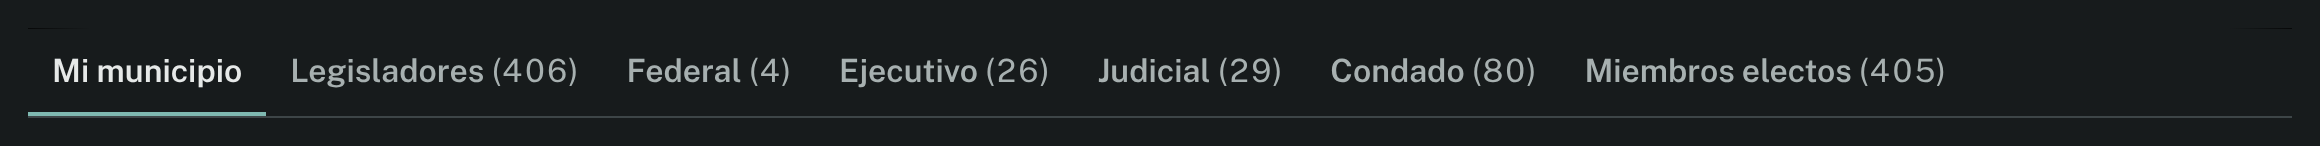
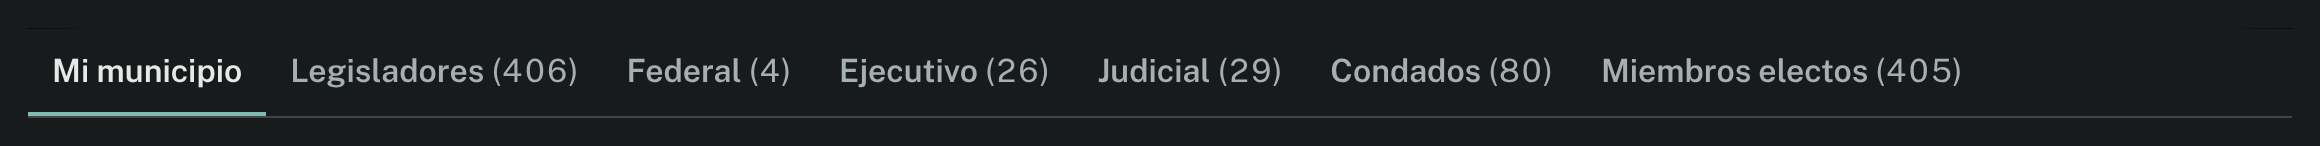
Members-elect polish: STATUS READY for the Sunday dry run
STATUS (release and backend session, session_01E3dVhbcYK2W3ZViQknFZyn):
fix/members-elect-polish is READY. It is dev 92247871 (dry run 6) plus
Alice's four answers to "From the walk of dry run 4" and the two small ones.
docs/design/members-elect-polish/README.md has every change, the shots
(before on dry run 6, after with the branch applied in the browser) and the
checks.

1. Seven Officials tabs on one line at 1280 and 1440, in English and Spanish.
   The proposed words, each Spanish one a draft:
     My Town | Legislators (406) | Federal (4) | Executive (26) |
     Judicial (29) | County (80) | Members-Elect (405)
     Mi municipio | Legisladores (406) | Federal (4) | Ejecutivo (26) |
     Judicial (29) | Condados (80) | Miembros electos (405)
   1,016px in English and about 979 in Spanish, of 1,132. The panels keep
   the whole names as their headings, for a screen reader and a page read
   without the script. The phone is unchanged. "Condados" is plural, after a
   reviewer read "Condado (80)" as one county.
2. "Your rep" / "Your senator" stays only on a member re-elected to the seat
   they hold, on town pages, the map and the Members-Elect tab.
   build_members_elect writes "own" for that winner (206 of 213 on dry run
   6's data; Creighton and Telerski among the 7 not), the renderers mark the
   item elown, and ytMark takes the tag off every other link in a winners'
   list.
3. From 2 December, /officials#members-elect opens Legislators and writes
[…]

Changed region(s): [[0.6207, 0.3836, 0.869, 0.5753]]

diff --git a/docs/design/members-elect-polish/README.md b/docs/design/members-elect-polish/README.md
@@ -24,11 +24,13 @@ script still get. Each Spanish word is a draft.
 | federal | **Federal (4)** | **Federal (4)** | Federal Delegation / Delegación federal |
 | executive | **Executive (26)** | **Ejecutivo (26)** | Executive Branch / Poder Ejecutivo |
 | judicial | **Judicial (29)** | **Judicial (29)** | Judicial Branch / Poder Judicial |
-| counties | **County (80)** | **Condado (80)** | County Officials / Funcionarios del condado |
+| counties | **County (80)** | **Condados (80)** | County Officials / Funcionarios del condado |
 | (unchanged) | Members-Elect (405) | Miembros electos (405) | Members-Elect |
 
-- Measured on dry run 6 with the web fonts, the seven tabs take 1,016px in English and 971px in
-  Spanish, of the strip's 1,132, at 1280 and at 1440.
+- "Condados" is plural: a reader of Spanish took "Condado (80)" for one county, and the tab is
+  the ten counties' (the review of 7 November 2026).
+- Measured on dry run 6 with the web fonts, the seven tabs take 1,016px in English and about
+  979px in Spanish, of the strip's 1,132, at 1280 and at 1440.
 - Below 1024px the strip scrolls with its edge's shadow, as before. On a phone only the labels
   are shorter.
 - The search rows (find.json) keep the panels' whole names.
@@ -69,6 +71,8 @@ writes `#legislators` into the address.
 - From the 2 December build the tab is not drawn at all. OFFICIALS_HASH_JS sends
   `#members-elect`, `#of-elect-senate` and `#of-elect-house` to `#legislators` while nothing
   on the page has that id.
+- Once the page has loaded, a reader sent this way is shown the strip, with Legislators chosen,
+  so that nothing hides where they were sent. A reader who has scrolled on is not moved.
 - With no address the page still opens My Town. A town page, whose strip names no
   `data-retired` tab and has no retiring tab, is as it was.
 
@@ -132,26 +136,42 @@ shots are the same pages with this branch applied in the browser. Each is descri
     drafts.
   - TABS_JS in node, in seven cases: the day before, the day itself, no address, a section
     inside the retired panel, the tab built hidden, a strip naming no tab for it, and an
-    ordinary tab. Each covers load, End, ArrowLeft, a hashchange, and a page left open across
-    midnight with the tab focused.
-  - OFFICIALS_HASH_JS in seven cases.
+    ordinary tab. Each covers load (and whether the strip is brought into view), End,
+    ArrowLeft, a hashchange, and a page left open across midnight with the tab focused.
+  - OFFICIALS_HASH_JS in seven cases, among them the tab not drawn at all.
 - **Changed.** `_legislators_page_tabs`, `_executive_branch_renamed`, `_officials_heads_and_judges`
   and `_spanish_officials` read the short labels on the tabs and the whole names on the panels.
   The members-elect cases in tests/components_cases.json gain an own winner and an unlinked one.
   `elown` is a known class.
-- **Mutants.** 18 of 19 each turn a check red, one per piece. The 19th keeps `own` on a winner
-  whose link "one person, one seat" took away. Nothing can draw it, because the renderers want a
-  link too.
+- **Mutants.** 24 of 25 each turn a check red, one per piece, in two runs: 19 on the first
+  commit and 6 on what the reviews added. The 25th keeps `own` on a winner whose link "one
+  person, one seat" took away. Nothing can draw it, because the renderers want a link too.
+- **Two reviews**, one for correctness and one reading as Alice would, each with experiments in
+  Chromium on dry run 6.
+  - Their two blocking findings are fixed: the rule did not reach the Officials tab, and every
+    town-page row widened, not just a member's.
+  - So are their should-fix findings: the address after the 2 December build, "Condados", and
+    the strip for a reader sent from a retired tab.
+  - What stays the owner's call is under "Not here".
 - **The town pages.** A sweep of all 320 on dry run 6, every panel shown and every `<details>`
   open, at 700, 820 and 1280, with this app.css in place. No page scrolls sideways and no
   contact column is squeezed. One row is past its edge, Plaistow's highway supervisor's phone,
   and dev's own app.css has it too.
 - `preflight --code`: see the STATUS commit.
 
-## Not here
+## Not here, for Alice to say
 
-- The My Town card still says "The county's own officials are under County Officials", the
-  panel's heading, over a tab that reads "County (80)". It is the reader's to judge whether
-  that wording should change. It would be a draft in Spanish too.
+- **A long-named member's address.** At 1280 and 1440, where the House and Senate cards sit side
+  by side, Prudhomme-O'Brien's address breaks onto two lines beside her chip ("kpo@ /
+  gc.nh.gov"). Derry's House list then has address edges at 405, 411 and 499px. Seabrook's
+  "Matt.Sabourin@ / gc.nh.gov" breaks the same way. Nothing overlaps any more.
+  - One alternative the reader's review tried: when a member's chip is wider than the column,
+    the address drops under the chip in one piece.
+- **The English strip between 1024 and about 1062px** still scrolls, by up to 40px, with its
+  edge's shadow; the chosen tab is always brought into view. Spanish fits there, on its
+  tighter padding, which English could take too.
+- **The My Town card** still says "The county's own officials are under County Officials", the
+  panel's heading, over a tab that reads "County (80)". Any new wording would be a draft in
+  Spanish too.
 - The 2 December switch night itself is not exercised here. The cases above are the browser's
   side of it.
